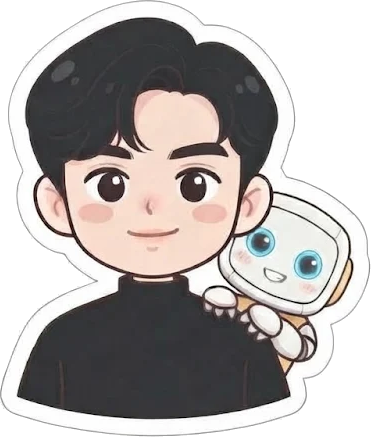
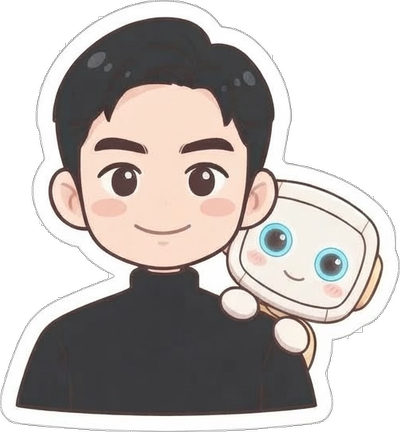
캐릭터 로고를 휴먼쌤확인 확정 마크로 교체(assets/humanssam.png, index.html ?v=20261024h) · data.js?v=20261024h · CLAUDE.md 인수인계(로고·활동지 1쪽)
- 로고 교체는 '휴먼티처닷컴 — 상황극 영상·학습맵 활동지 넣기' 창의 일(휴먼쌤 "사이트에 올라간 캐릭터 로고가 원래 내가 선택한게 아니야"), 이 창이 요청받아 같은 커밋에 넣음
- index.html의 data.js?v=20261024h는 활동지 PDF 이름 변경(edc7e33)에 딸린 것

diff --git a/index.html b/index.html
@@ -6,7 +6,7 @@
 <title>휴먼티처닷컴 | 휴먼쌤</title>
 <meta name="description" content="AI와 함께 살아갈 아이가 자기 생각을 만들고 판단하도록 돕는 교육 콘텐츠. 휴먼쌤의 책과 자료(클라우드), 앱과 도구(앱), 이야기와 월드(월드)로 가는 입구입니다.">
 <meta name="color-scheme" content="light">
-<link rel="icon" href="assets/humanssam.png">
+<link rel="icon" href="assets/humanssam.png?v=20261024h">
 <link rel="preconnect" href="https://fonts.googleapis.com">
 <link rel="preconnect" href="https://fonts.gstatic.com" crossorigin>
 <link rel="stylesheet" href="https://fonts.googleapis.com/css2?family=Jua&family=Gowun+Dodum&family=Noto+Sans+KR:wght@400;500;700&display=swap">
@@ -191,7 +191,7 @@ button.enter{width:100%;border:0;font-weight:400;cursor:pointer}
 <body>
 <div class="wrap">
   <header class="bar">
-    <a class="word" href="#/"><img src="assets/humanssam.png" alt="">휴먼쌤</a>
+    <a class="word" href="#/"><img src="assets/humanssam.png?v=20261024h" alt="">휴먼쌤</a>
     <nav class="nav" aria-label="칸 고르기">
       <a href="#/cloud" data-k="cloud">클라우드</a>
       <a href="#/app" data-k="app">앱</a>
@@ -203,7 +203,7 @@ button.enter{width:100%;border:0;font-weight:400;cursor:pointer}
 </div>
 
 <!-- data.js를 고치면 아래 v= 숫자를 올린다(브라우저·CDN이 옛 내용을 기억하지 않게) -->
-<script src="data.js?v=20261024g"></script>
+<script src="data.js?v=20261024h"></script>
 <script>
 (function(){
   var S = window.SITE, main = document.getElementById('main'), ORDER = ['cloud','app','world'];
@@ -214,7 +214,7 @@ button.enter{width:100%;border:0;font-weight:400;cursor:pointer}
 
   function home(){
     var h = '<div class="view">'
-      + '<div class="hi"><img src="assets/humanssam.png" alt="휴먼쌤 캐릭터" width="371" height="437"><div class="bubble"><b>안녕하세요, 휴먼쌤이에요.</b><br>생각주도력을 키우는 교사아빠예요. 어디로 갈까요?</div></div>'
+      + '<div class="hi"><img src="assets/humanssam.png?v=20261024h" alt="휴먼쌤 캐릭터" width="400" height="432"><div class="bubble"><b>안녕하세요, 휴먼쌤이에요.</b><br>생각주도력을 키우는 교사아빠예요. 어디로 갈까요?</div></div>'
       + '<div class="doors">';
     ORDER.forEach(function(k){
       var s = S.sections[k];

diff --git a/CLAUDE.md b/CLAUDE.md
@@ -9,7 +9,7 @@
 |---|---|
 | `index.html` | **화면**(2026-10-21 개편판). 주소 뒤 `#`으로 화면을 고른다: `#/` 처음(인사 · 클라우드/앱/월드 썸네일 카드 · 채널 다섯, 로고까지 눌림) · `#/cloud`·`#/app`·`#/world` 카드 목록 · `#/<칸>/<slug>` 소개 페이지(바로 들어가기·소개·화면). 옛 주소 `#cloud`·`#world`도 열린다. 720px·1040px에서 넓어짐. 글꼴 Google Fonts |
 | `data.js` | **내용 전부**(채널 다섯, 칸 셋의 카드). 카드를 더하거나 고칠 때는 이 파일만 고친다. 맨 위 주석에 카드 한 장의 칸 설명 |
-| `assets/humanssam.png` | 휴먼쌤 캐릭터 그림(옛 시안의 `MARK` base64를 꺼낸 것) |
+| `assets/humanssam.png` | 휴먼쌤 캐릭터 그림(머리 아이콘·첫 화면 인사·탭 아이콘). **휴먼쌤확인 로고 마크**(10-06 15:36 "로고 아주 좋아", 리니가 어깨 뒤에서 빼꼼한 3차 마크)의 투명 판을 400px로 줄인 것. 바꿀 때는 디자인부 확정본에서만 가져온다(그림을 바꾸면 `?v=` 숫자도 올림) |
 | `assets/thumbs/` · `assets/shots/` · `assets/ch/` | 카드 그림(800x500) · 소개 페이지 화면 그림 · 채널 로고(96px). 그림은 노션 예비 사이트(hot-spur-030.notion.site)와 같은 것 |
 | `assets/videos/` | 한국어 상황극 11편 영상(`00-store.mp4`~`10-bill.mp4`, 세로 720x1280, 편당 7~9MB, Cloudflare 파일 한도 25MB 안)과 표지 그림 `posters/`(편마다 '오늘의 표현' 자막이 보이는 장면) |
 | `assets/worksheets/` | 학습맵 학생 활동지 PDF 5장(`hanok`·`store`·`bunsik`·`subway`·`pharmacy`, A4 1쪽). 월드 카드의 `worksheet` 칸이 가리킨다 |
@@ -47,5 +47,6 @@
 - 이어서(2026-10-24, PC, 같은 브랜치): 휴먼쌤 "일단 그럼 클라우드에직접 올리고, 앱별 학습지 1판 하나네집도 만든 다음에, 그것도 휴먼티처닷컴에 각 콘텐츠쪽에 넣어줘" → 클라우드 칸에 '한국어 상황극 11편' 카드(`korean-drama`): 소개 페이지에서 11편을 바로 재생(`videos` 칸, `preload="none"`+표지 그림, 하나를 틀면 나머지는 멈춤), 'AI로 만든 영상'·'대사와 프랑스어 번역은 확인 전' 안내(`warn` 칸). 편 제목·오늘의 표현은 노션 콘텐츠 페이지 '한국어 상황극 10편' 편별 목록 그대로. 월드 학습맵 5곳 소개 페이지에 '학생 활동지 내려받기'(`worksheet` 칸). 1판 하나네 집 활동지는 새로 만듦(2~5판과 같은 꼴, 내용은 맵 `content.js`의 낱말·대사·문화 한 줄에서만, 원본 HTML은 `_work/worksheet-hanok/`). 375·390·1280px 가로 넘침 없음, 영상 재생·영상·PDF 응답 200 확인. 휴먼쌤 "다되면 올려" → Cloudflare Pages에 올림.
 - 이어서(2026-10-24 저녁, PC): 휴먼쌤 "하나네 집에 놀러가요처럼 다른 4개도 썸네일이 나오면 좋겠고, 5개가 따로 있지 말고 하나의 버튼에 모아줘 폴더처럼" → 월드에 묶음 카드 '한국어 학습맵'(`children`로 hanok·store·bunsik·subway·pharmacy)을 두고, 다섯은 `parent`를 붙여 월드 목록에서는 숨기고 묶음 페이지에서 보여 줌(소개 페이지 주소 `#/world/<slug>`는 그대로, 뒤로 가기·'다른 곳' 넘겨 보기는 묶음 안에서). 2~5판 썸네일을 실제 장면(`*-scene.jpg`: 데스크톱 미리보기 그림·편의점은 크롬 캡처)으로 바꿈, 묶음 표지는 다섯 장면 3×2 모음. `data.js?v=20261024d`.
 - 이어서(2026-10-24 저녁, PC): 휴먼쌤 "'한국어 학습맵 5종'이라고 버튼을 만들고 그걸 누르면 5개가 보이도록" → 묶음 이름을 '한국어 학습맵 5종'으로, 묶음 페이지 버튼은 '들어갈 곳 고르기'. 묶음 표지에서 분식집 칸이 비어 있던 것을 다시 만듦(원본 `_work/thumb-korean-maps.html`). `data.js?v=20261024e`로 Cloudflare Pages에 올림(공개 주소에서 월드 목록·묶음 다섯 곳 확인). 휴먼쌤 "깃허브는 어차피 안되니까 당연히 클라우드플레어로 해야지" — GitHub이 막혀 있는 동안 '올려'는 Cloudflare Pages 배포를 뜻한다.
-- 이어서(2026-10-24 밤, PC, 같은 브랜치): 휴먼쌤 "이걸 human-teacher.com의 '앱'모음에다가 올려줘 콘텐츠 샘플 3종 … 프롬프트 만들기도 앱에다 넣어줘" → 앱 칸에 묶음 카드 '한글학교 수업콘텐츠 샘플 3종'(`lesson-samples`, children `lesson-card`·`lesson-quiz`·`lesson-roleplay`, 각 콘텐츠는 humanssaem-lesson-samples.pages.dev 주소 + 활동지 PDF `assets/worksheets/lesson-*.pdf`)과 선생님용 '수업콘텐츠 프롬프트 만들기'(`prompt-set`) 카드. 활동지 버튼의 쪽수 글은 카드의 `sheetNote`(없으면 'A4 1쪽 · PDF'). 썸네일 5장은 각 페이지를 800x500으로 찍은 것(묶음 표지 원본 `_work/thumb-lesson-samples.html`). 390px 가로 넘침 없음, 묶음 → 세 콘텐츠 → 활동지 링크 확인. `data.js?v=20261024f`로 Cloudflare Pages에 올림. 같은 밤 휴먼쌤 "활동지 pdf가 전부다 별로야 … 모두 1쪽짜리로 … 학생용 학습지 1쪽으로만" → 활동지 PDF 3장을 학생용 A4 1쪽(선생님용·정답지 없음)으로 바꿔 `assets/worksheets/lesson-*.pdf` 교체, 소개 글·`sheetNote`·tags를 1쪽으로, `data.js?v=20261024g`.
+- 이어서(2026-10-24 밤, PC, 같은 브랜치): 휴먼쌤 "이걸 human-teacher.com의 '앱'모음에다가 올려줘 콘텐츠 샘플 3종 … 프롬프트 만들기도 앱에다 넣어줘" → 앱 칸에 묶음 카드 '한글학교 수업콘텐츠 샘플 3종'(`lesson-samples`, children `lesson-card`·`lesson-quiz`·`lesson-roleplay`, 각 콘텐츠는 humanssaem-lesson-samples.pages.dev 주소 + 활동지 PDF `assets/worksheets/lesson-*.pdf`)과 선생님용 '수업콘텐츠 프롬프트 만들기'(`prompt-set`) 카드. 활동지 버튼의 쪽수 글은 카드의 `sheetNote`(없으면 'A4 1쪽 · PDF'). 썸네일 5장은 각 페이지를 800x500으로 찍은 것(묶음 표지 원본 `_work/thumb-lesson-samples.html`). 390px 가로 넘침 없음, 묶음 → 세 콘텐츠 → 활동지 링크 확인. `data.js?v=20261024f`로 Cloudflare Pages에 올림. 같은 밤 휴먼쌤 "활동지 pdf가 전부다 별로야 … 모두 1쪽짜리로 … 학생용 학습지 1쪽으로만" → 활동지 PDF 3장을 학생용 A4 1쪽(선생님용·정답지 없음)으로 바꿔 `assets/worksheets/lesson-*.pdf` 교체, 소개 글·`sheetNote`·tags를 1쪽으로, `data.js?v=20261024g`. 휴먼쌤 폰이 옛 PDF를 기억해 "주소가 안바뀐거 같아" → 파일 이름을 `lesson-*-1p.pdf`로 바꿔 다시 올림(`data.js?v=20261024h`, 옛 이름 파일도 새 내용으로 남겨 둠). 활동지 PDF를 바꿀 때는 이름도 바꾼다.
+- 이어서(2026-10-24 밤, PC): 휴먼쌤 "사이트에 올라간 캐릭터 로고가 원래 내가 선택한게 아니야 다시 확인좀" → 확인하니 `assets/humanssam.png`가 10-06 로고 작업 중 쓰지 않기로 한 5차 시안(코 있는 얼굴, 리니 머리 기울임, 디자인부 `work/mark5_cap_trim.png`와 같은 파일)이었다. 휴먼쌤확인 확정 마크(3차 `mark3_v2`, 투명 판)로 바꾸고 `humanssam.png?v=20261024h`로 Cloudflare Pages에 올림(공개 주소 그림이 확정본과 같은 파일임을 해시로, 390·1280px 화면으로 확인).
 - 남은 일: ⓪ 노션 예비 사이트와 내용이 갈리면 이 저장소(`data.js`)가 정본. 상황극 대사·프랑스어 번역을 원어민이 확인하면 `warn`의 '확인 전' 문장을 뺀다. 4편 택시는 한국어·프랑스어 장면 내내 앞유리에 AI 글자가 보여(표지는 '따라 말하기' 화면으로 피함) 다시 만들지는 휴먼쌤 결정 ① 책·워크북·강의노트가 나오면 '준비 중'을 '열림'+주소로 ② GitHub이 풀리면 이 커밋들을 올린다. 사이트를 Cloudflare에 둘지 GitHub Pages로 돌릴지는 그때 휴먼쌤이 정한다(지금 도메인은 Cloudflare로 가 있어 GitHub Pages 쪽 `CNAME`은 쓰이지 않음)
